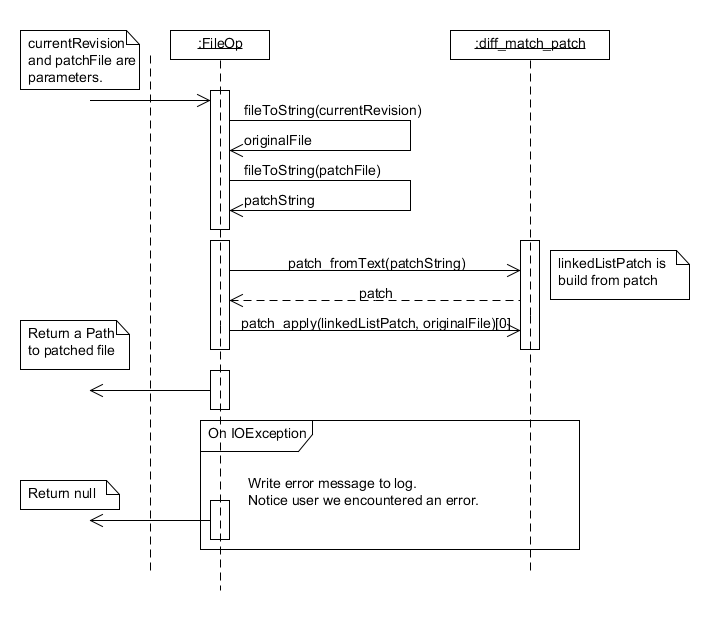
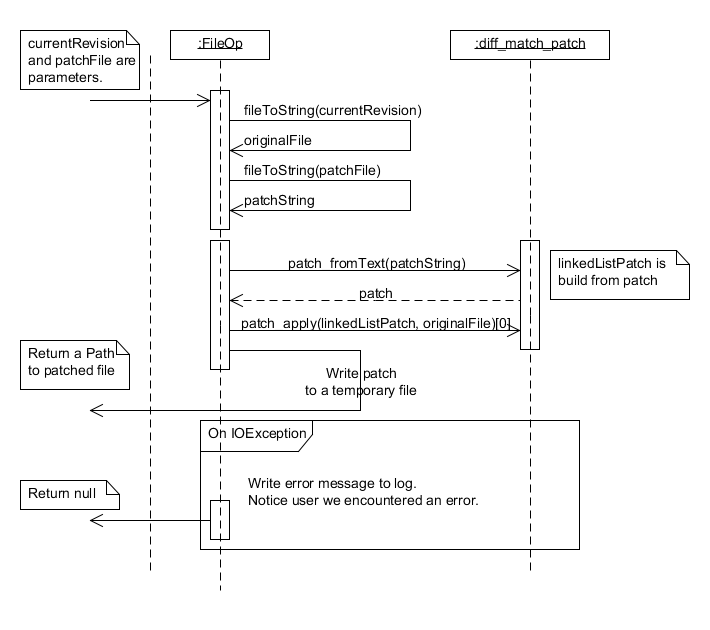
AddAdded FileOp.createPatch sequence diagram. Changed a little FileOp.applyPatch sequence diagram.
git-svn-id: http://fbms.googlecode.com/svn/trunk@528 c375ce47-9a4c-63b9-7dad-5ffa0e8ccef7

Changed region(s): [[0.031, 0.5127, 0.1859, 0.6635], [0.4338, 0.573, 0.5887, 0.6333], [0.2789, 0.6333, 0.3099, 0.6635]]

diff --git a/doc/milestone_6/milestone_6.tex b/doc/milestone_6/milestone_6.tex
@@ -893,7 +893,7 @@ Another area where feedback was crucial was in the GUI development. We had to ai
 \includegraphics[width=\textwidth]{images/applyPatch_sequence.png}
 
 \subsubsection{FileOp.createPatch}
-\todonote{Tao}
+\includegraphics[width=\textwidth]{images/createPatch_sequence.png}
 
 \subsubsection{FileHistory.getRevisionInfo}
 \includegraphics[width=\textwidth]{images/filehistory_getrivisioninfo-2.jpg}
